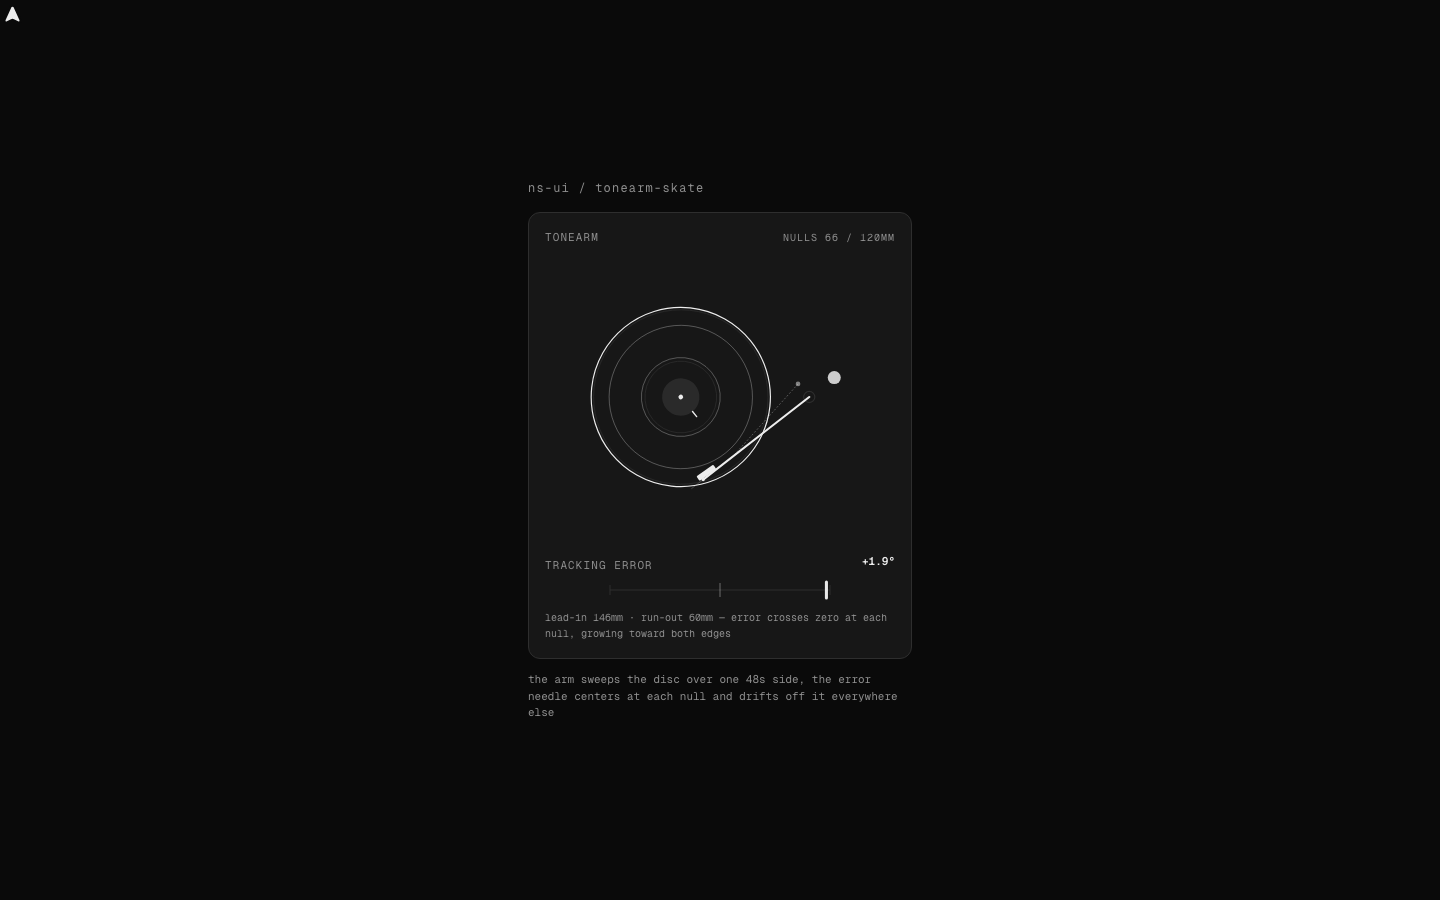
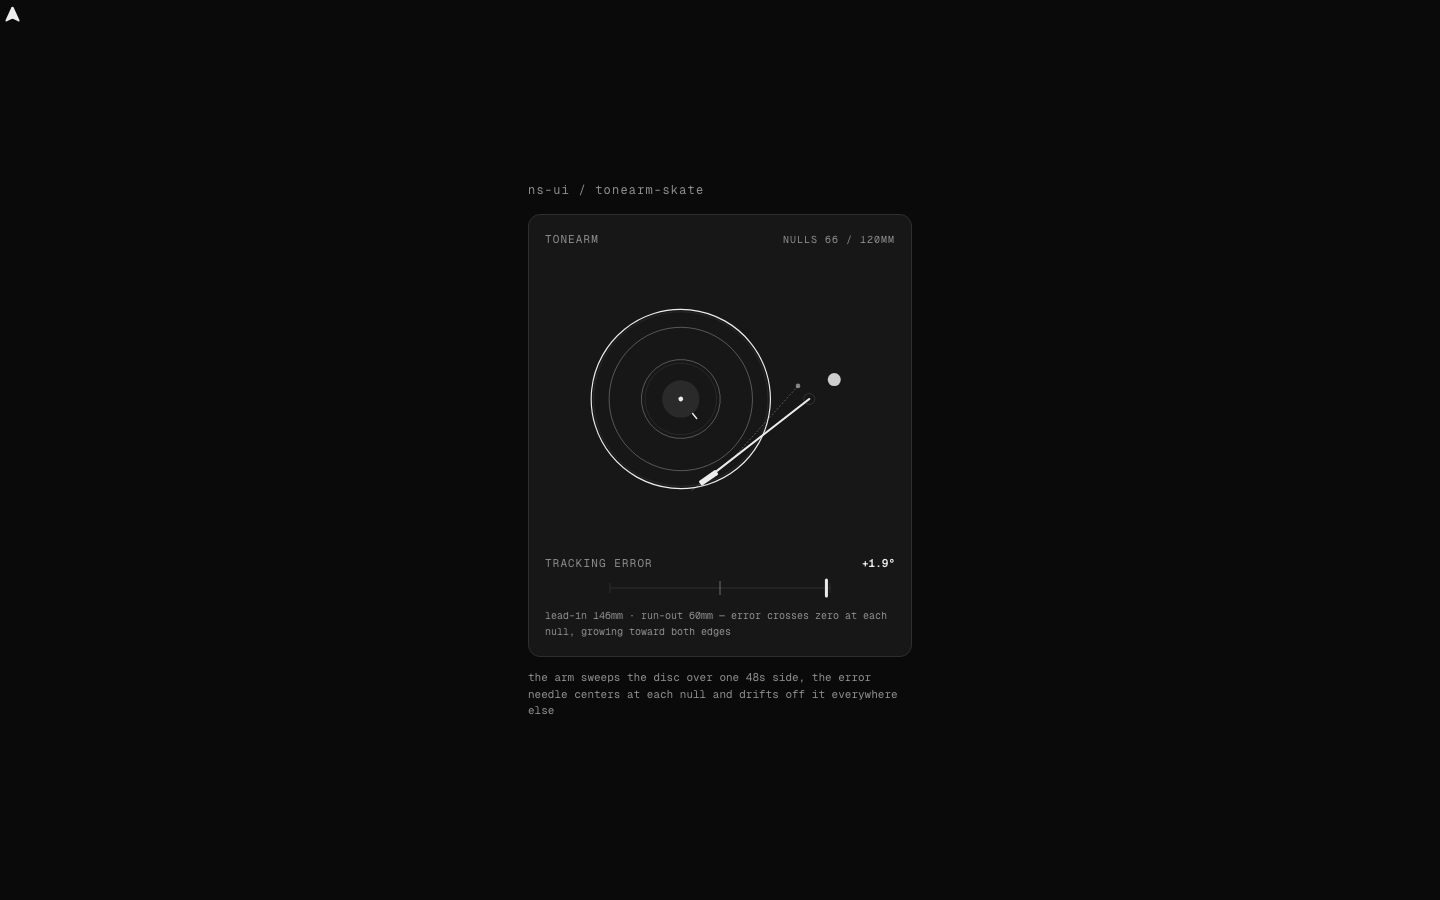
fix(registry): tonearm-skate — Baerwald geometry, light-theme tokens, a11y
Rebuilt after the first pass: real law-of-cosines tracking error with a
documented interior lobe (the first curve had a dead middle), null rings and
anti-skate thread off --border (invisible in light theme, one load-bearing),
role=img no longer swallowing the numeric readouts, and a static T0 frame
inlined so no SVG primitive renders at zero length pre-hydration.

Claude-Session: https://claude.ai/code/session_01REfwHs6W1mECvo3q6PFVMv

diff --git a/registry/core/tonearm-skate/component.tsx b/registry/core/tonearm-skate/component.tsx
@@ -430,17 +430,18 @@ export function TonearmSkate({ className = "" }: TonearmSkateProps) {
             strokeDasharray="2 2"
             opacity={0.45}
           />
-          {/* pivot mount, also fixed, never lifts */}
-          <circle
-            cx={PV.x}
-            cy={PV.y}
-            r={6}
-            fill="none"
-            className="stroke-current text-border"
-            strokeWidth={1.25}
-          />
-
           <g ref={armGroupRef}>
+            {/* pivot mount — rigidly attached to the tube, so it lives in
+                the lifted group with everything else that shares the pivot
+                point; only the thread and its post (above) stay fixed */}
+            <circle
+              cx={PV.x}
+              cy={PV.y}
+              r={6}
+              fill="none"
+              className="stroke-current text-border"
+              strokeWidth={1.25}
+            />
             {/* counterweight */}
             <circle
               ref={cwRef}
@@ -479,7 +480,7 @@ export function TonearmSkate({ className = "" }: TonearmSkateProps) {
             <rect
               ref={headshellRef}
               x={-4}
-              y={-7}
+              y={-3}
               width={22}
               height={6}
               rx={1.25}
